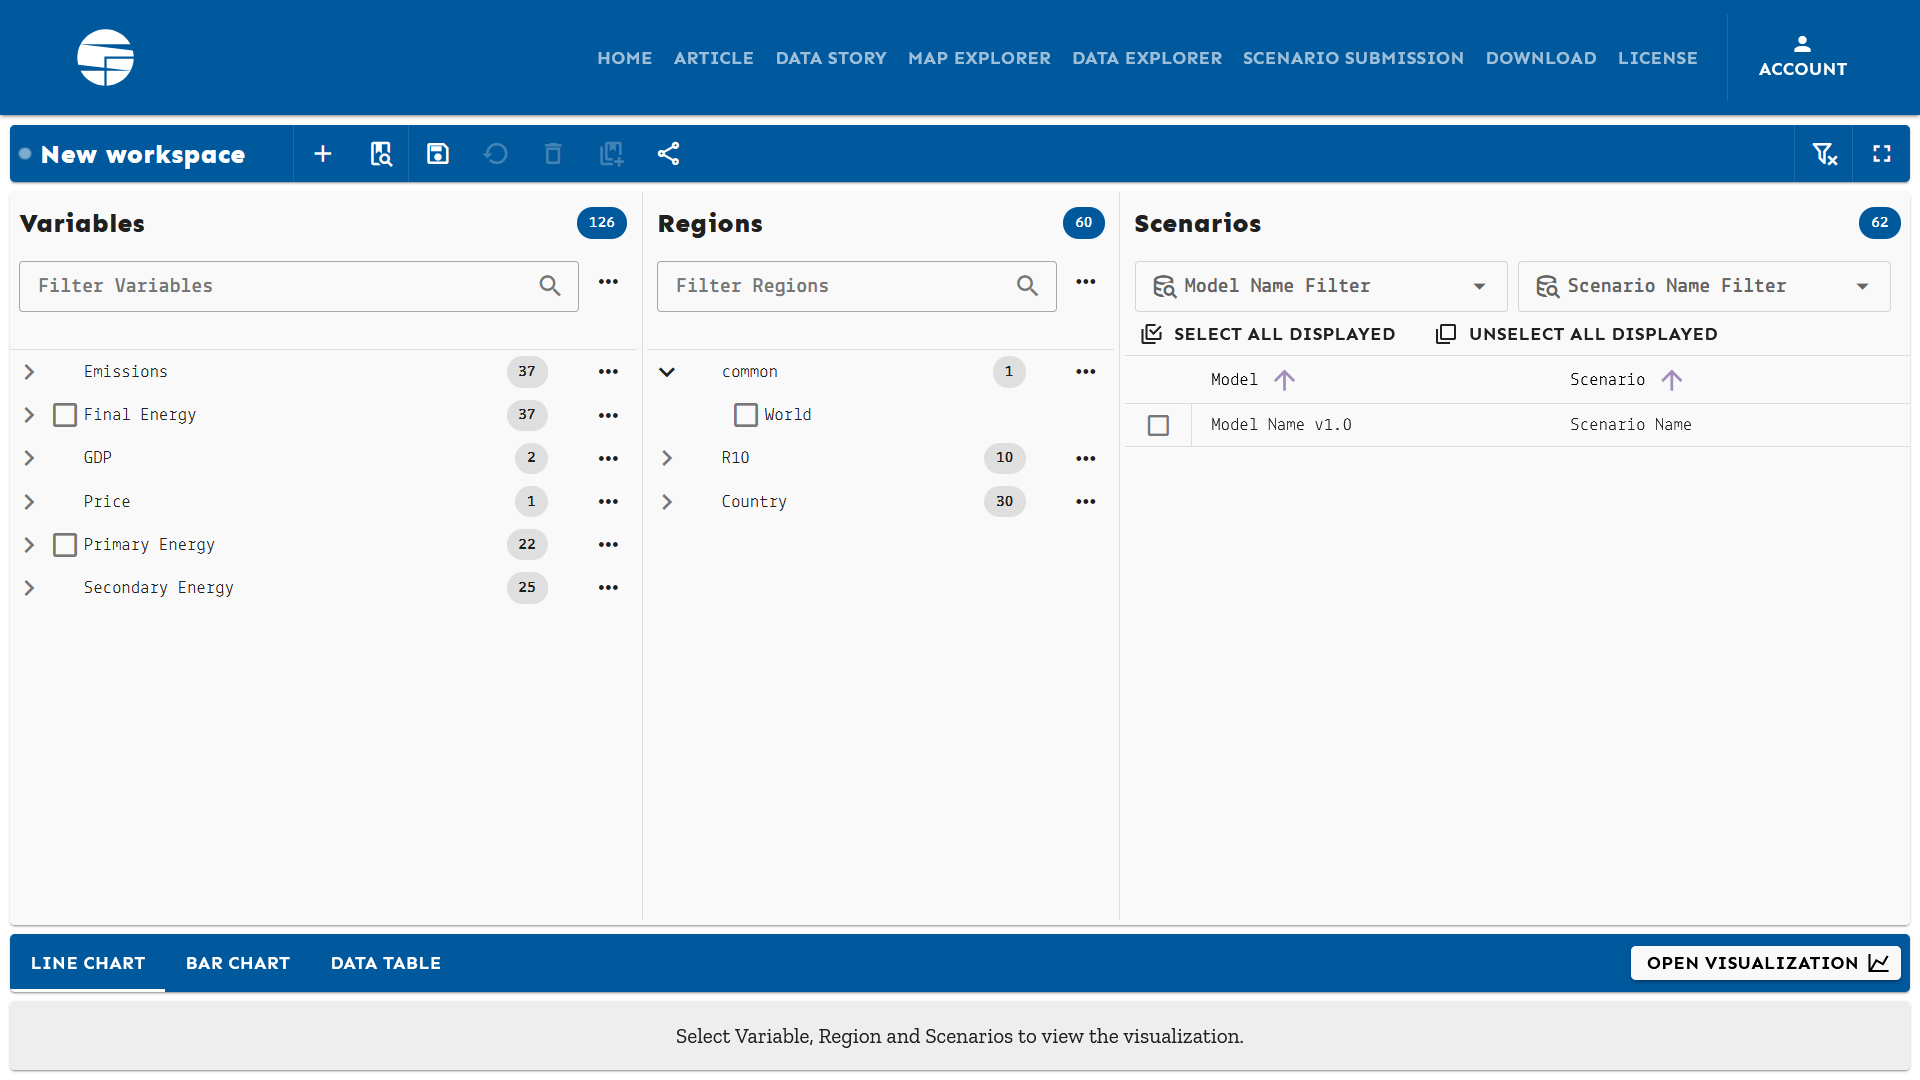
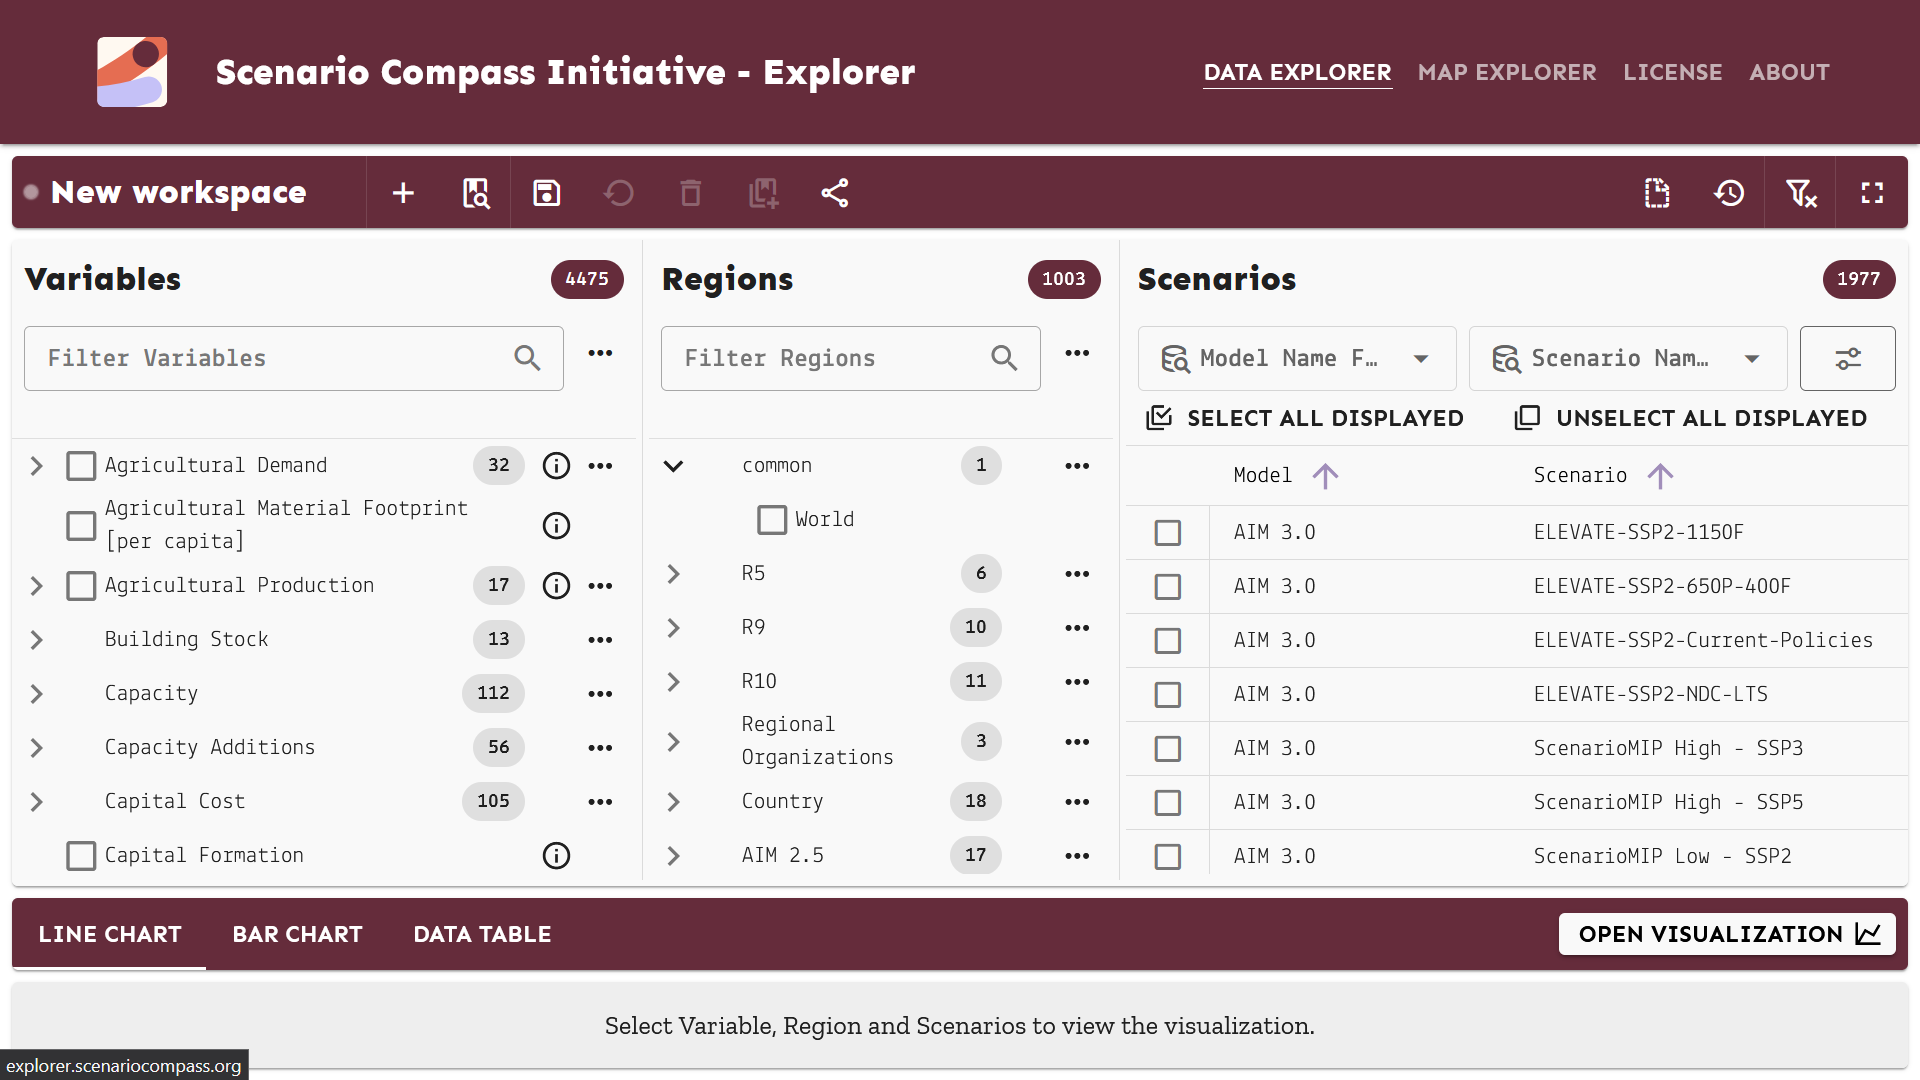
Update Data Explorer

diff --git a/user-guide/advanced/scenario-workflow.rst b/user-guide/advanced/scenario-workflow.rst
@@ -26,35 +26,34 @@ This simple workflow script consists of four main steps:
 
 1. Importing the Python dependencies, **pyam** and **nomenclature**
 
-	- `pyam` is responsible for manipulating IAM DataFrames
-	- `nomenclature` provides scenario validation and region aggregation
-      functionalities
-
-		- For more information on scenario validation, see:
+  - `pyam` is responsible for manipulating IAM DataFrames
+  - `nomenclature` provides scenario validation and region aggregation functionalities
+    
+    - For more information on scenario validation, see:
 
 2. Parsing the project definitions
 
-	- The project workflow directory contains and/or imports "codelists", which
-      specify the allowed values for the data dimensions (regions, variables, etc.)
+  - The project workflow directory contains and/or imports "codelists", which 
+    specify the allowed values for the data dimensions (regions, variables, etc.)
 
-		- For more information on codelists, see:
+	- For more information on codelists, see:
 
 3. Instantiating region-aggregation processor(s)
 
-	- The ``RegionProcessor`` is built on the project's mappings, in the `mappings`
-      directory and/or imported from external repositories
+  - The ``RegionProcessor`` is built on the project's mappings, in the `mappings`
+    directory and/or imported from external repositories
 
-		- For more information on mappings and importing from external repositories,
-          see:
+	- For more information on mappings and importing from external repositories,
+      see:
 
-	- Other specialised processors are available, such as the ``CountryProcessor``
-      (for aggregating multi-country regions) and the ``NUTSProcessor``
-      (for NUTS administrative regions)
+  - Other specialised processors are available, such as the ``CountryProcessor``
+    (for aggregating multi-country regions) and the ``NUTSProcessor``
+    (for NUTS administrative regions)
 
 4. Running the processor(s)
 
-	- Region processing has two parts:
+  - Region processing has two parts:
 
-		- Region renaming, from internal names outputted by the models to
-          user-friendly, human-readable names for model-comparison studies
-		- Region aggregation, ... 
+    - Region renaming, from internal names outputted by the models to
+      user-friendly, human-readable names for model-comparison studies
+    - Region aggregation, ... 

diff --git a/user-guide/scenario-apps/data-explorer.rst b/user-guide/scenario-apps/data-explorer.rst
@@ -1,5 +1,8 @@
 .. _data-explorer:
 
+Data Explorer
+=============
+
 .. figure:: ../../_static/explorer-1.png
    :width: 600px
    :align: center
@@ -17,3 +20,38 @@
    :align: center
 
    The Bar Chart data visualization.
+
+.. figure:: ../../_static/explorer-4.png
+   :width: 600px
+   :align: center
+
+   The Table data visualization.
+
+Advanced Data Selection
+-----------------------
+
+For additional options to select data, particularly for projects with many
+model-scenario combinations, you can use **Advanced Data Selection**.
+For this, click the |adv| button on the top left corner of the Scenarios panel.
+
+.. |adv| image:: ../../_static/adv.png
+   :width: 22
+
+In this menu, you have two sections:
+
+- the Filter panel allows users to:
+
+  - **Filter by Name:** select models and/or scenarios by typing the names and
+    confirming the filter selection from a drop-down menu.
+  - **Filter by Meta-Indicator:** select meta-indicators and apply filters according
+    to their values (value match, range selection, etc.).
+
+- the Matches panel shows a list of the model-scenario combinations that match
+the selected filters in the Filter panel. The **Select All Displayed** |select-all|
+and |select-none| buttons conveniently add/remove all matches from the selection.
+
+.. |select-all| image:: ../../_static/select-all.png
+   :width: 22
+
+.. |select-none| image:: ../../_static/select-none.png
+   :width: 22
